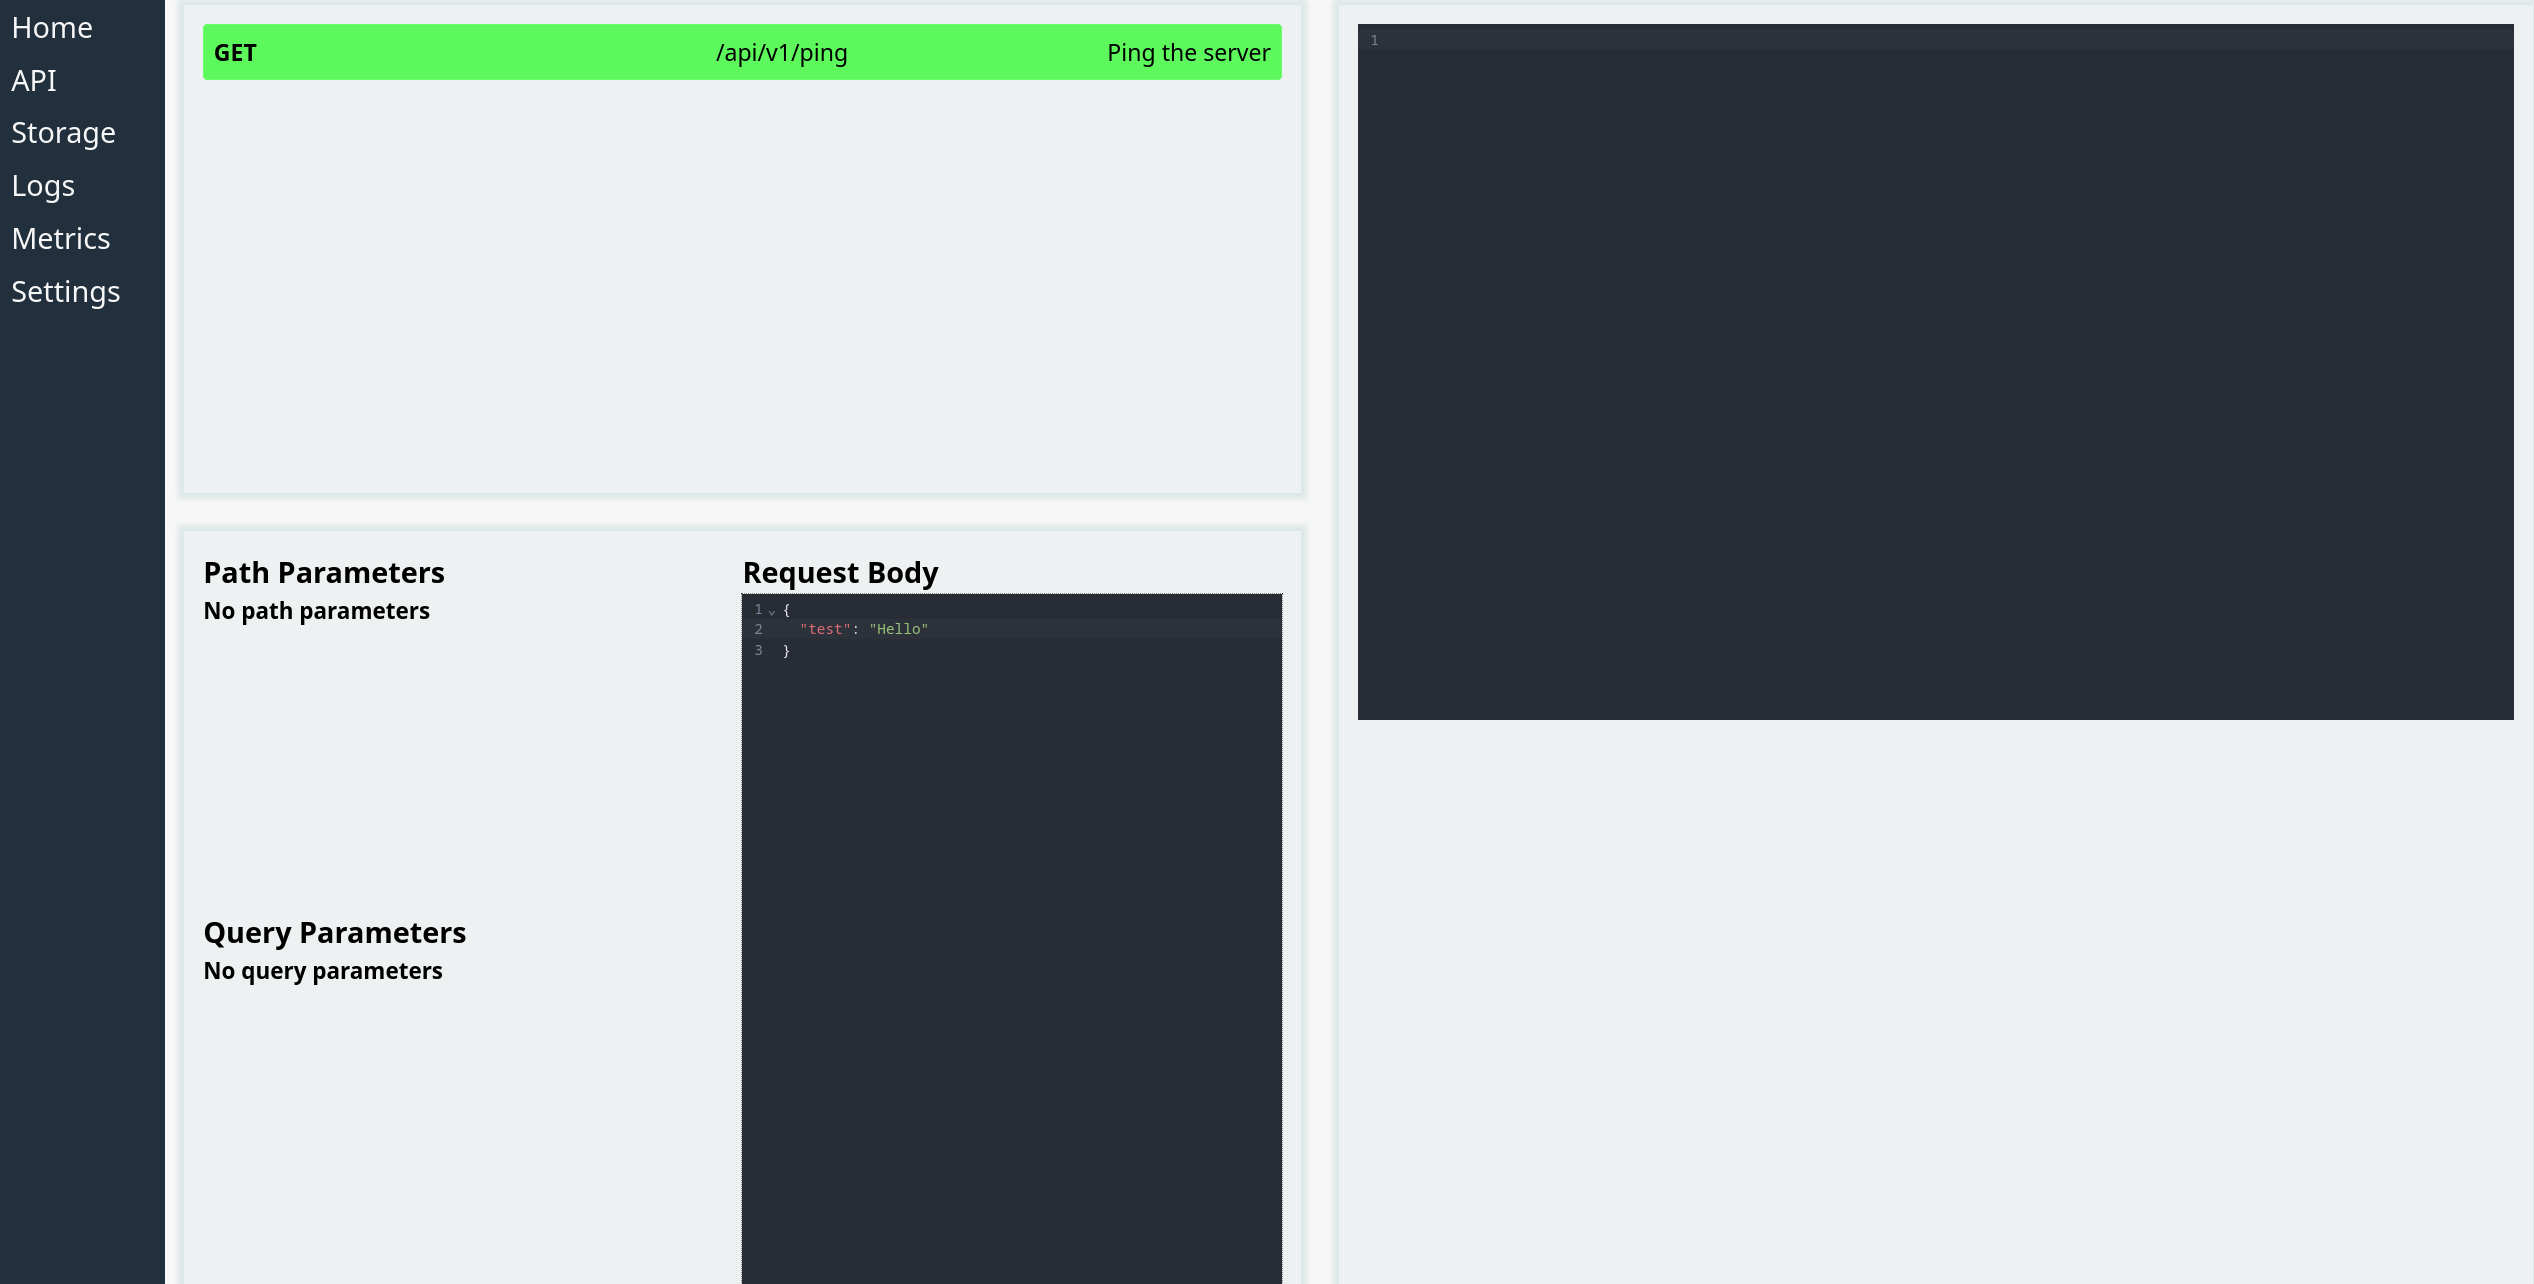
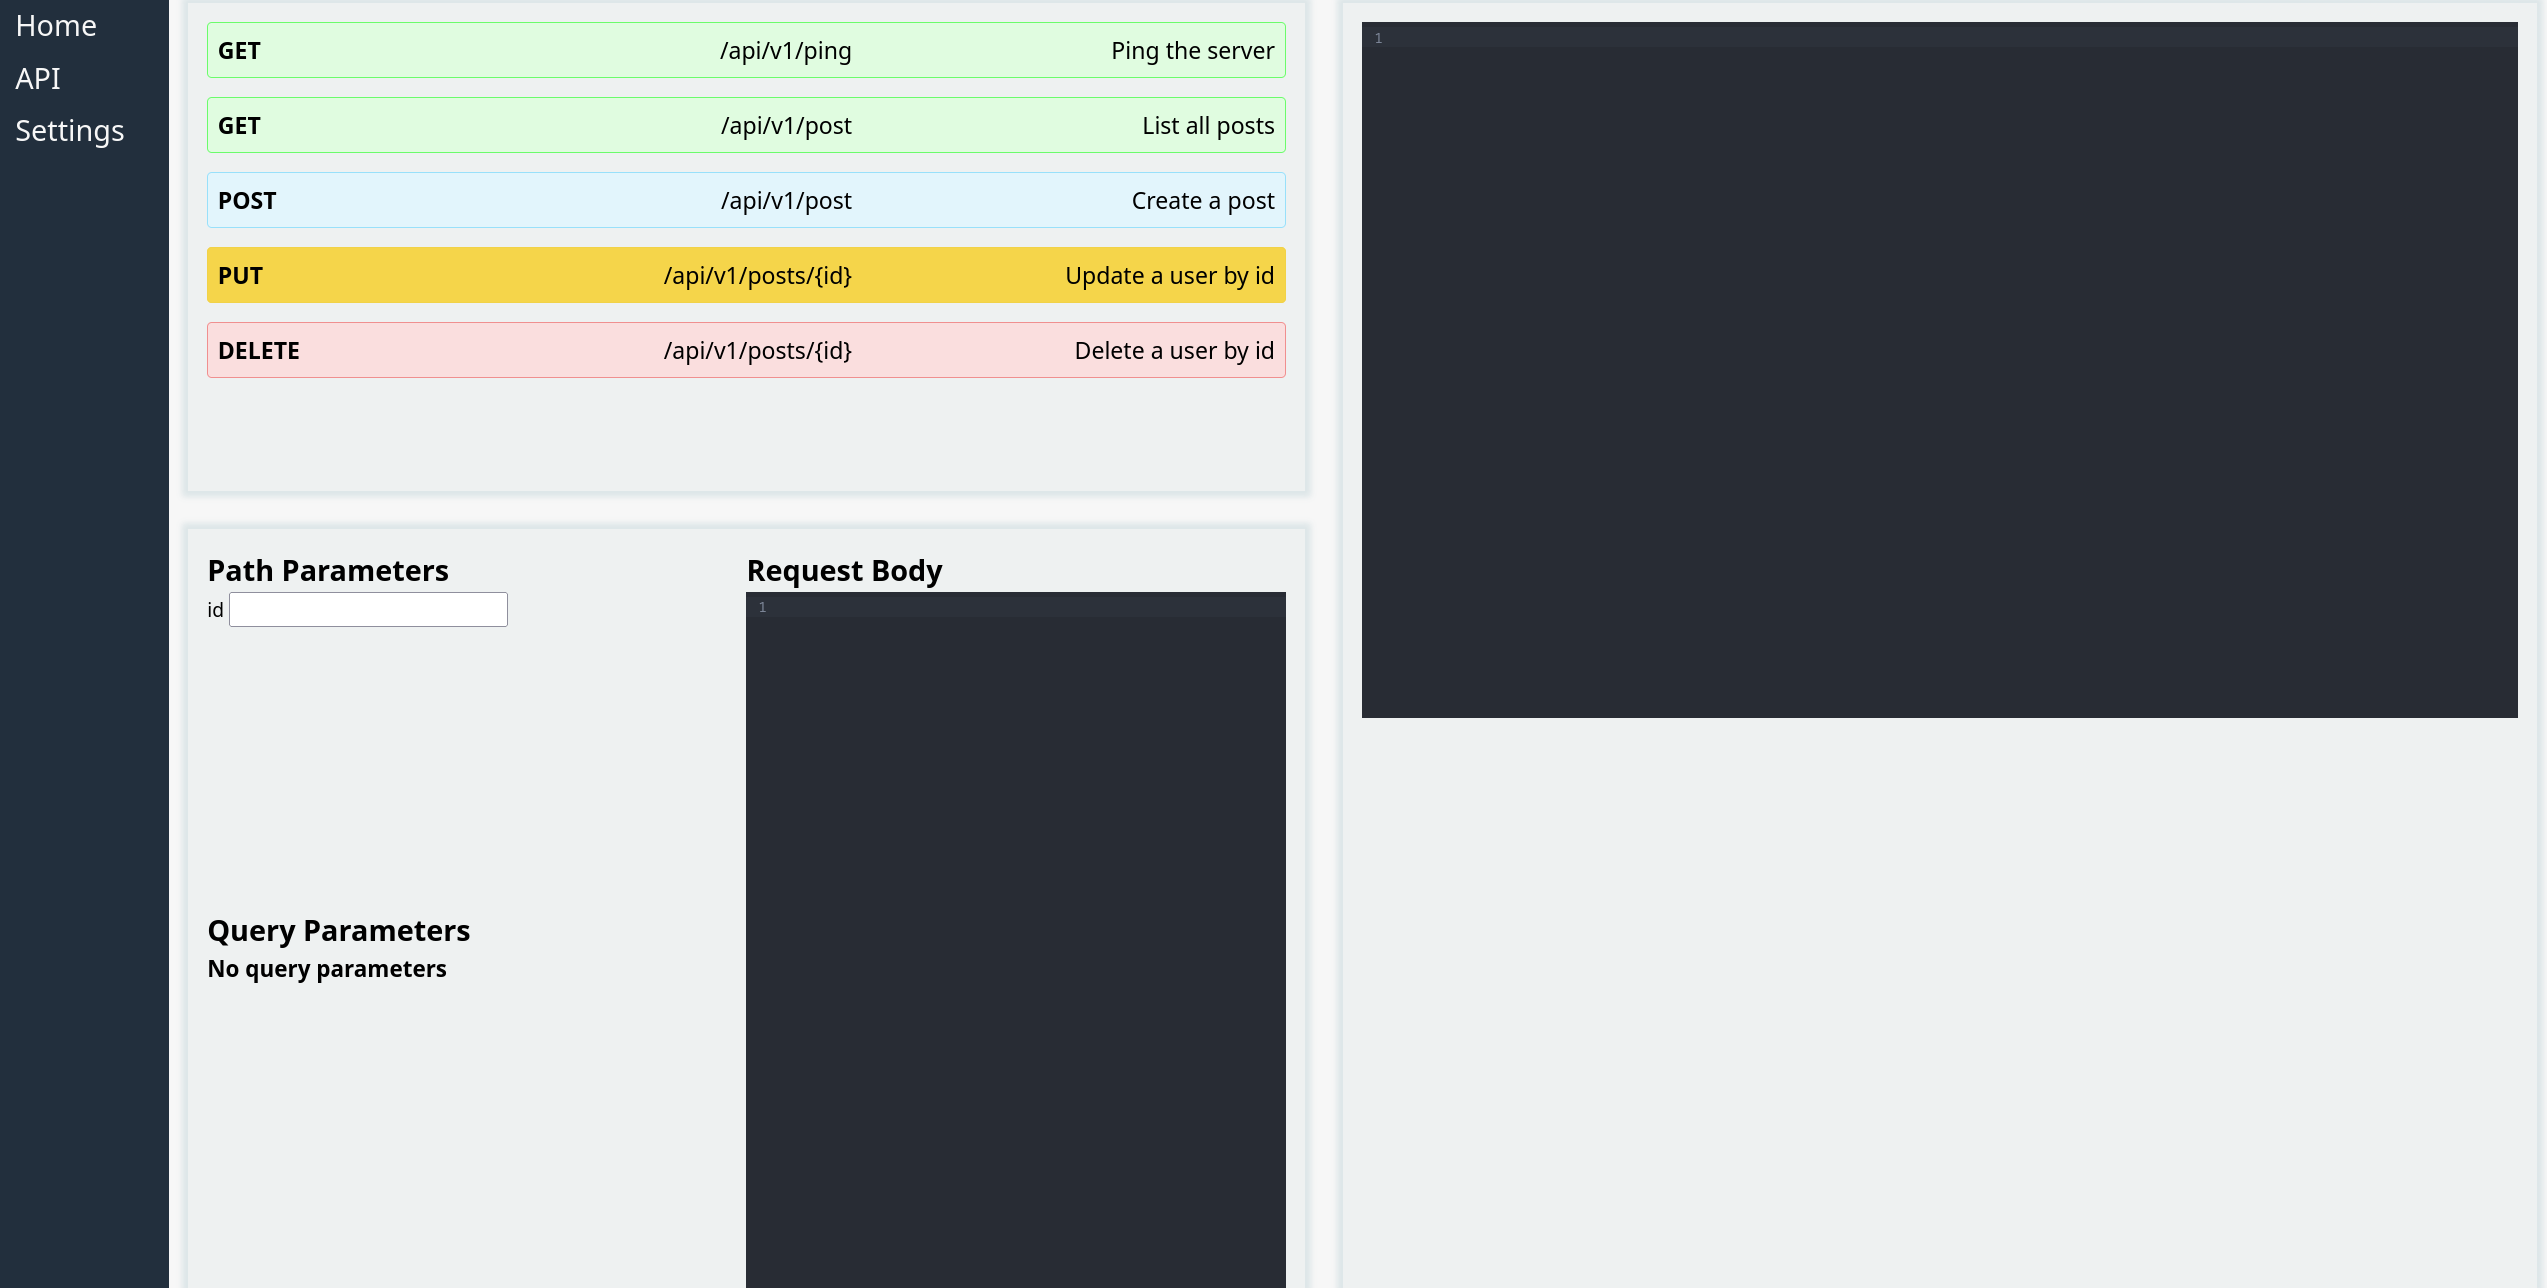
Continue screenshotting. Turn off routes file parsing for screenshot.

diff --git a/admin/src/routes/api.svelte b/admin/src/routes/api.svelte
@@ -17,6 +17,46 @@
 				type: "string"
 			},
 			query_params: null
+		},
+		{
+			method: "GET",
+			path: "/api/v1/post",
+			description: "List all posts",
+			url_param: {
+				name: "",
+				type: "string"
+			},
+			query_params: null
+		},
+		{
+			method: "POST",
+			path: "/api/v1/post",
+			description: "Create a post",
+			url_param: {
+				name: "",
+				type: "string"
+			},
+			query_params: null
+		},
+		{
+			method: "PUT",
+			path: "/api/v1/posts/{id}",
+			description: "Update a user by id",
+			url_param: {
+				name: "id",
+				type: "string"
+			},
+			query_params: null
+		},
+		{
+			method: "DELETE",
+			path: "/api/v1/posts/{id}",
+			description: "Delete a user by id",
+			url_param: {
+				name: "id",
+				type: "string"
+			},
+			query_params: null
 		}
 	];
 	onMount(async () => {

diff --git a/admin/src/components/sidebar.svelte b/admin/src/components/sidebar.svelte
@@ -2,9 +2,6 @@
 	<ul>
 		<li><a href="/">Home</a></li>
 		<li><a href="/api">API</a></li>
-		<li><a href="/storage">Storage</a></li>
-		<li><a href="/logs">Logs</a></li>
-		<li><a href="/metrics">Metrics</a></li>
 		<li><a href="/settings">Settings</a></li>
 	</ul>
 </nav>
